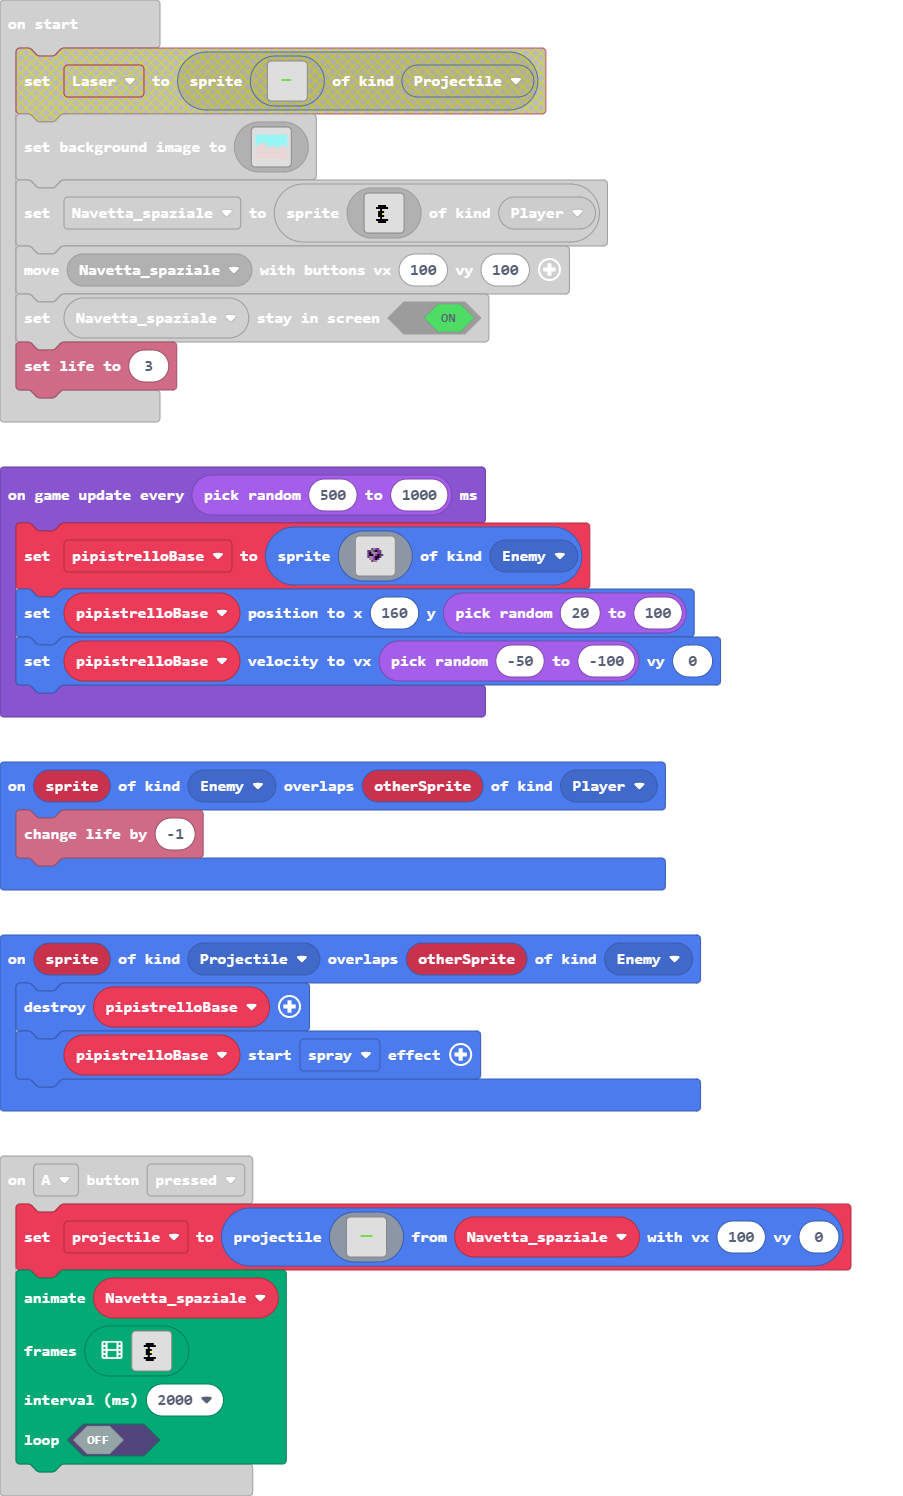
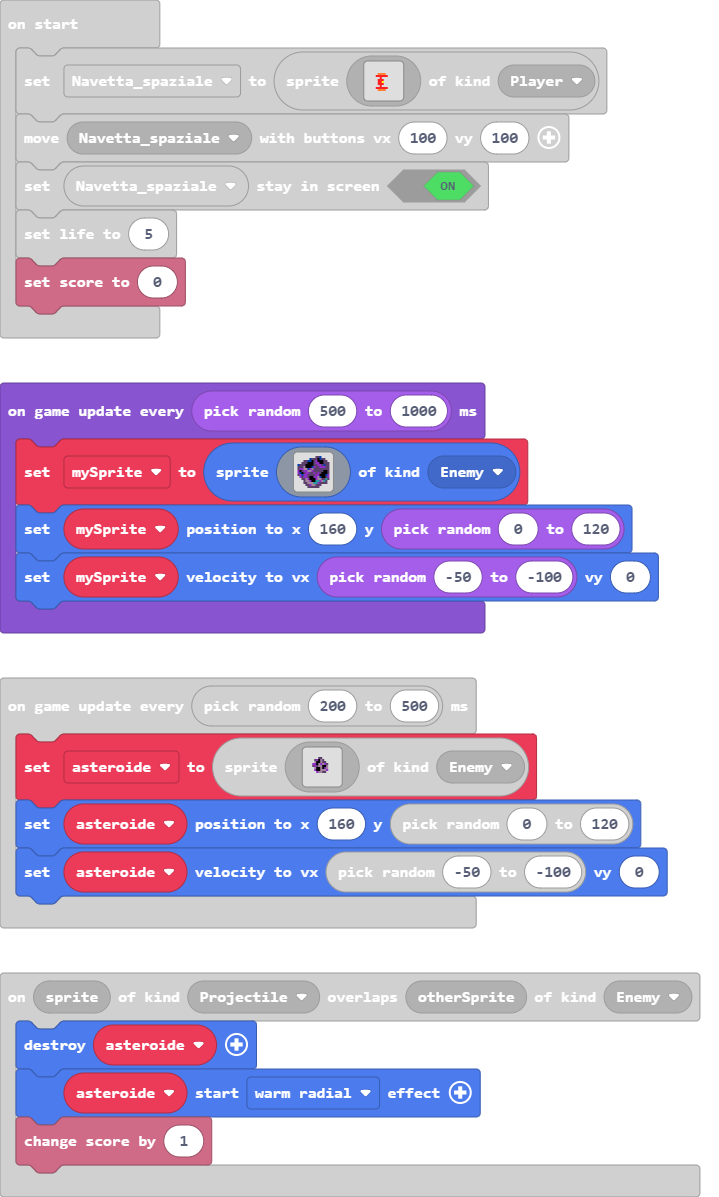
Update main.blocks, main.ts

diff --git a/main.ts b/main.ts
@@ -97,14 +97,16 @@ controller.A.onEvent(ControllerButtonEvent.Pressed, function () {
     )
 })
 sprites.onOverlap(SpriteKind.Projectile, SpriteKind.Enemy, function (sprite, otherSprite) {
-    pipistrelloBase.destroy()
-    pipistrelloBase.startEffect(effects.warmRadial)
+    asteroide.destroy()
+    asteroide.startEffect(effects.warmRadial)
+    info.changeScoreBy(1)
 })
 sprites.onOverlap(SpriteKind.Player, SpriteKind.Enemy, function (sprite, otherSprite) {
     otherSprite.destroy()
     info.changeLifeBy(-1)
 })
-let pipistrelloBase: Sprite = null
+let mySprite: Sprite = null
+let asteroide: Sprite = null
 let projectile: Sprite = null
 let Navetta_spaziale: Sprite = null
 Navetta_spaziale = sprites.create(img`
@@ -128,8 +130,9 @@ Navetta_spaziale = sprites.create(img`
 controller.moveSprite(Navetta_spaziale, 100, 100)
 Navetta_spaziale.setStayInScreen(true)
 info.setLife(5)
+info.setScore(0)
 game.onUpdateInterval(randint(200, 500), function () {
-    pipistrelloBase = sprites.create(img`
+    asteroide = sprites.create(img`
         . . . . . . . . . . . . . . . . 
         . . . . . . . . . . . . . . . . 
         . . . . . . . . . . . . . . . . 
@@ -147,6 +150,28 @@ game.onUpdateInterval(randint(200, 500), function () {
         . . . . . . . . . . . . . . . . 
         . . . . . . . . . . . . . . . . 
         `, SpriteKind.Enemy)
-    pipistrelloBase.setPosition(160, randint(0, 120))
-    pipistrelloBase.setVelocity(randint(-50, -100), 0)
+    asteroide.setPosition(160, randint(0, 120))
+    asteroide.setVelocity(randint(-50, -100), 0)
+})
+game.onUpdateInterval(randint(500, 1000), function () {
+    mySprite = sprites.create(img`
+        . . . . . . . . . c c 8 . . . . 
+        . . . . . . 8 c c c f 8 c c . . 
+        . . . c c 8 8 f c a f f f c c . 
+        . . c c c f f f c a a f f c c c 
+        8 c c c f f f f c c a a c 8 c c 
+        c c c b f f f 8 a c c a a a c c 
+        c a a b b 8 a b c c c c c c c c 
+        a f c a a b b a c c c c c f f c 
+        a 8 f c a a c c a c a c f f f c 
+        c a 8 a a c c c c a a f f f 8 a 
+        . a c a a c f f a a b 8 f f c a 
+        . . c c b a f f f a b b c c 6 c 
+        . . . c b b a f f 6 6 a b 6 c . 
+        . . . c c b b b 6 6 a c c c c . 
+        . . . . c c a b b c c c . . . . 
+        . . . . . c c c c c c . . . . . 
+        `, SpriteKind.Enemy)
+    mySprite.setPosition(160, randint(0, 120))
+    mySprite.setVelocity(randint(-50, -100), 0)
 })
